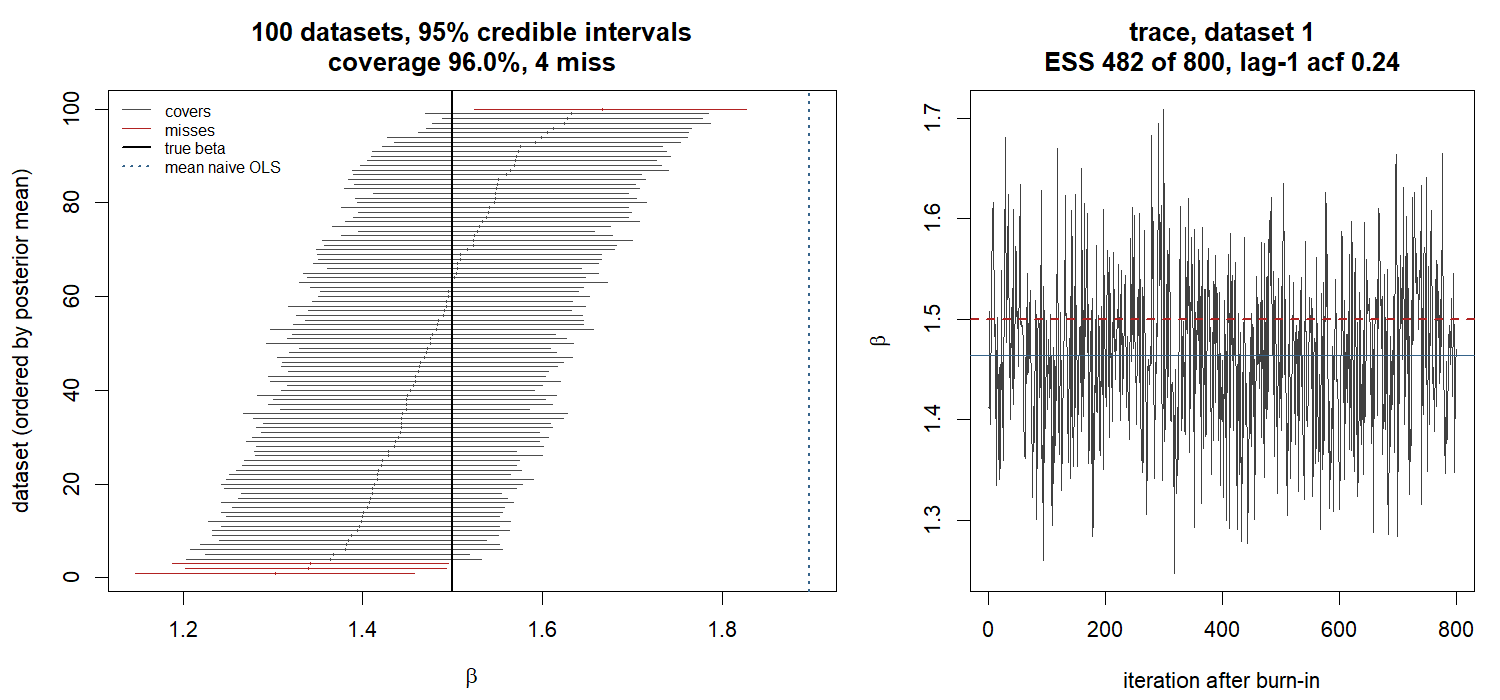
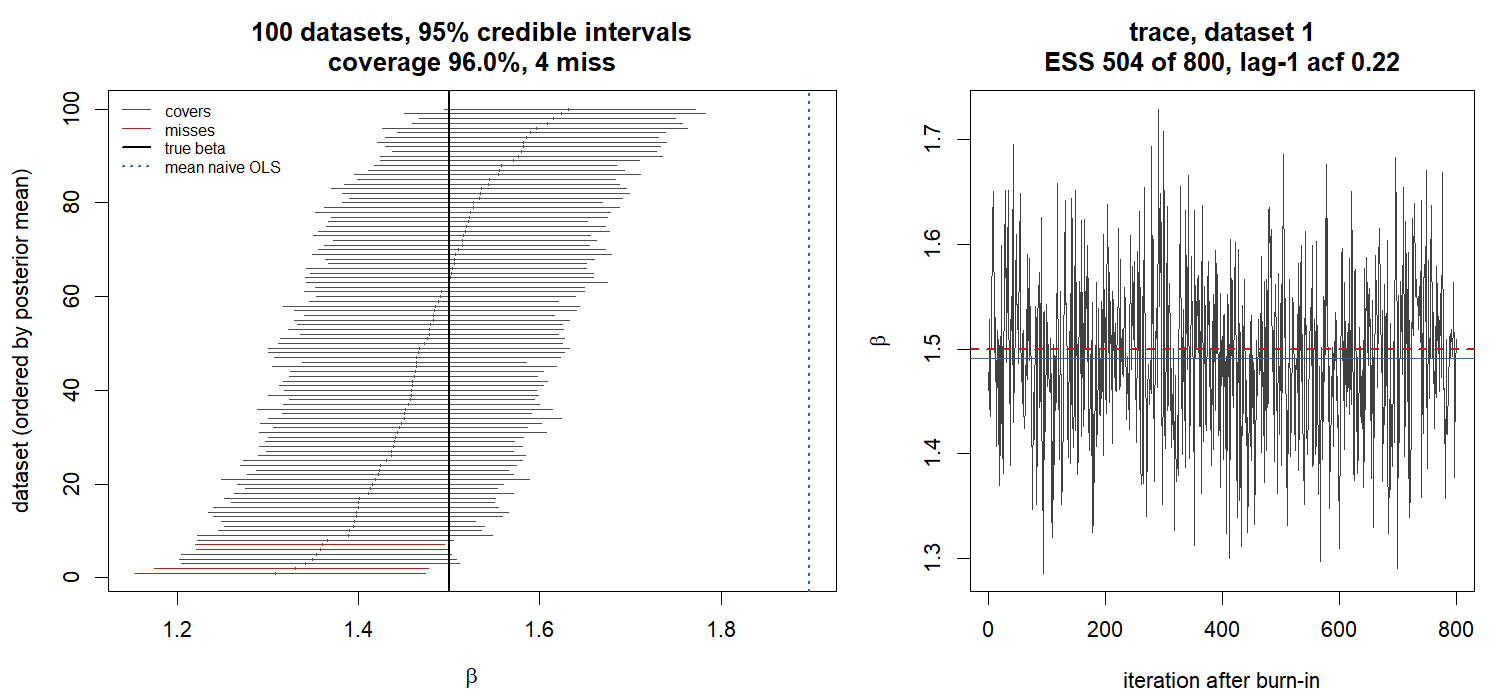
Make the prior and the network scale with the response
Two defects with one cause, both found by the LaLonde example and neither by
any simulation in this repository. Every simulated response here has standard
deviation around 5, so a constant that is harmless at that scale looks correct
indefinitely. Both are now tested by asserting invariance under a change of
units, because a threshold at one scale is exactly what failed to catch them.

prior_beta defaulted to a flat 100, a prior standard deviation of 10 on every
coefficient regardless of units. On earnings the likelihood contributed a
precision near 1e-6 against the prior's 0.01, so the prior won by three orders
of magnitude and the reported posterior was the prior: an effect of one dollar
with an interval of [-19, 22], on an outcome whose standard deviation exceeds
7000, and no warning. The default is now "auto", (2.5 sd(y) / sd(x_j))^2 per
coefficient, which is the rstanarm convention. A number is still accepted and
is now documented as the thing most likely to be got wrong.

bllnn_warmup() centred the response but did not scale it. Adam moves the
weights by about learn_rate per step whatever the gradient is, so a fixed
epoch budget buys a fixed distance in weight space, while the distance needed
grows with the response. Relative error of the fitted body was 0.29 at the
simulator's scale and 0.93 with the same data times 1000 -- barely better than
predicting the mean. The response is now standardised and
[…]

diff --git a/README.md b/README.md
@@ -8,7 +8,7 @@ does for Bayesian Additive Regression Trees.
 Hand it a residual and a noise level; get back one honest posterior draw of a
 nonlinear function. That contract is the whole package.
 
-> **Status:** working and tested, not yet on CRAN. 1229 tests, `R CMD check`
+> **Status:** working and tested, not yet on CRAN. 1242 tests, `R CMD check`
 > clean. The API is stable enough to build on, but not yet frozen.
 
 ## What this is, and what it is not
@@ -59,7 +59,7 @@ summary(fit)
 Linear coefficients (95% credible intervals):
 
       Estimate     SD  Lower  Upper ESS
-treat   1.4757 0.0955 1.2947 1.6591 638 *
+treat   1.4736 0.0938 1.2939 1.6620 826 *
 
 * interval excludes zero
 ```
@@ -131,9 +131,10 @@ it the network can represent `E[x | z]` exactly and competes with `b` for the
 same direction, attenuating it.
 
 Over 100 simulated datasets at confounding 0.6, nominal 95% intervals covered
-the true coefficient **96%** of the time, with bias **-0.020** where naive
+the true coefficient **96%** of the time, with bias **-0.024** where naive
 least squares carried **+0.397**. The script is
-`inst/validation/coverage_simulation.R`.
+`inst/validation/coverage_simulation.R`, and it exercises the same
+configuration the defaults give you.
 
 ## Known limitations
 
@@ -150,21 +151,19 @@ Stated plainly, because they are real.
   which is a different quantity protected by a different argument.
 - **Not a predictive-accuracy story.** BLL variants generally do not beat
   Gaussian processes on standard regression benchmarks.
-- **`prior_beta` is not scale-free.** The default of 100 is a prior standard
-  deviation of 10 on each linear coefficient, which is diffuse for a
-  standardised outcome and badly informative for one measured in dollars. On
-  the LaLonde earnings data the default returns an estimate of \$1 with an
-  interval of [-\$19, \$22]; setting `prior_beta = var(y)` returns \$1233
-  with [-\$303, \$2699]. Set it on the scale of your outcome. See
-  `vignette("lalonde", package = "bllnn")`.
+- **A hand-set `prior_beta` must be on the scale of your outcome.** The
+  default is `"auto"` and scales itself, but a number you pass does not. This
+  is not hypothetical: the fixed default of 100 that `"auto"` replaced
+  returned an effect of \$1 with an interval of [-\$19, \$22] on the LaLonde
+  earnings data, because the prior outweighed the likelihood by three orders
+  of magnitude. See `vignette("lalonde", package = "bllnn")`.
 - **Negative-binomial dispersion is fixed, not estimated.** It must be a
   positive integer; profile over a few values.
 
 ## Roadmap
 
-A scale-aware default for `prior_beta`; then CRAN preparation; then a C++ port
-of the numeric core, with the plain-R implementation kept permanently as the
-reference the port is tested against.
+CRAN preparation; then a C++ port of the numeric core, with the plain-R
+implementation kept permanently as the reference the port is tested against.
 
 ## References
 
